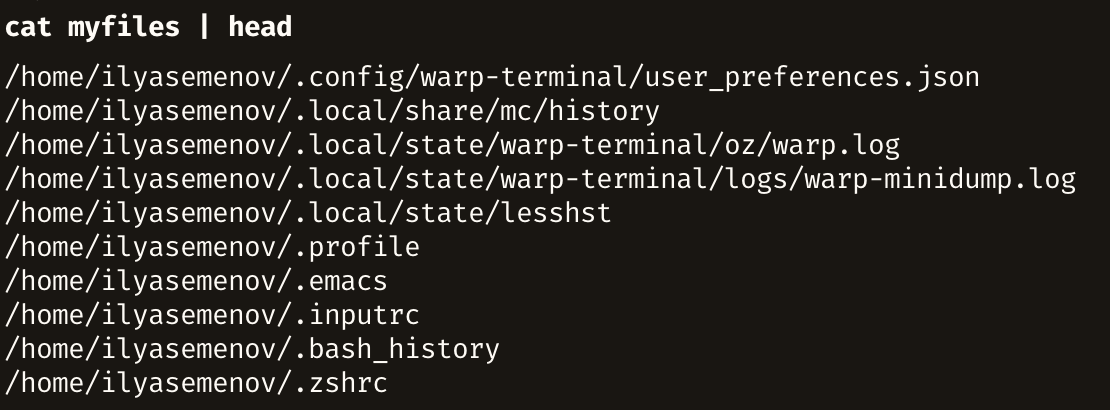
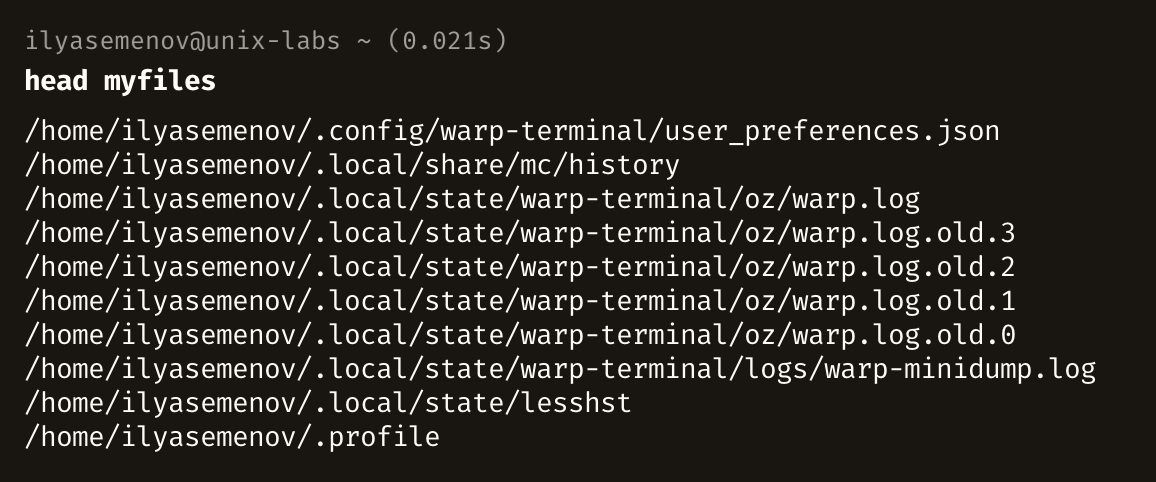
feat: add subtasks 6.3 and 6.4

Changed region(s): [[0.0, 0.0293, 0.9802, 0.9659], [0.3369, 0.0585, 0.4288, 0.1171]]

diff --git a/labs/report/lab1-filled.md b/labs/report/lab1-filled.md
@@ -810,9 +810,15 @@
 
    - **a.** Сохраните в переменной DATE текущую дату и время
 
+![Сохранение текущей даты и времени в переменной DATE](img/lab1/6.3_a_date_variable.png)
+
    - **b.** Получите информацию о суммарном количестве строчек во всех регулярных файлах домашнего каталога пользователя:
 
+![Подсчёт суммарного количества строк в регулярных файлах домашнего каталога](img/lab1/6.3_b_total_lines.png)
+
    - **c.** создайте файл, в имени которого присутствует текущая дата и время.
+
+![Создание файла с текущей датой и временем в имени](img/lab1/6.3_c_dated_file.png)
 
 
 ## Упражнение 6.4. Подстановка шаблонных символов
@@ -821,18 +827,25 @@
 
    - **a.** выведите полную информацию о подкаталогах домашнего каталога пользователя, заканчивающихся символами dir и о файлах содержащих в своем названии подстроку file:
 
+![Поиск каталогов, имена которых заканчиваются на dir, командой find](img/lab1/6.4_a_find_directories.png)
+
+![Поиск файлов, имена которых содержат подстроку file, командой find](img/lab1/6.4_a_find_files.png)
+
    - **b.** выведите полную информацию о объектах домашнего каталога пользователя, имена которых начинаются с точки.
+
+![Поиск объектов домашнего каталога, имена которых начинаются с точки](img/lab1/6.4_b_find_hidden.png)
 
    - **c.** выведите полную информацию о объектах домашнего каталога пользователя, имеющих длину имени ровно пять символов:
 
+![Поиск объектов домашнего каталога с именами длиной пять символов](img/lab1/6.4_c_find_five_chars.png)
+
    - **d.** удалите подкаталоги домашнего каталога пользователя, заканчивающихся символами dir и файлы содержащие в своем названии подстроку file:
 
-**Лабораторная работа зачтена:**
+![Удаление каталогов, имена которых заканчиваются на dir, и проверка результата](img/lab1/6.4_d_remove_directories.png)
 
-**Дата:**
+![Интерактивное удаление файлов, имена которых содержат подстроку file](img/lab1/6.4_d_remove_files.png)
 
-**Подпись преподавателя:**
-
+![Проверка оставшегося защищённого файла .profile](img/lab1/6.4_d_verify_remaining.png)
 
 # Лабораторная работа 7. Инструментальные средства UNIX
 
@@ -858,7 +871,15 @@
 
    - **a.** команды посимвольного перемещения курсора:
 
-![Vim navigation](img/lab1/7.2_vim_navigation.png)
+      | Команда | Действие |
+      |---|---|
+      | `-` | обычный файл |
+      | `d` | каталог |
+      | `b` | блочное устройство |
+      | `c` | символьное устройство |
+      | `p` | именованный канал (FIFO) |
+      | `s` | сокет |
+      | `l` | символическая ссылка |
 
    - **b.** команды пословного перемещения курсора:
 
@@ -870,17 +891,7 @@
 
    - **f.** команды вставки текста:
 
-![Vim append](img/lab1/7.2_vim_append.png)
-
-![Vim insert](img/lab1/7.2_vim_insert.png)
-
    - **g.** команды удаления текста:
-
-![Vim delete char](img/lab1/7.2_vim_delete_char.png)
-
-![Vim delete to eol](img/lab1/7.2_vim_delete_to_eol.png)
-
-![Vim delete word](img/lab1/7.2_vim_delete_word.png)
 
    - **h.** команды захвата текста:
 
